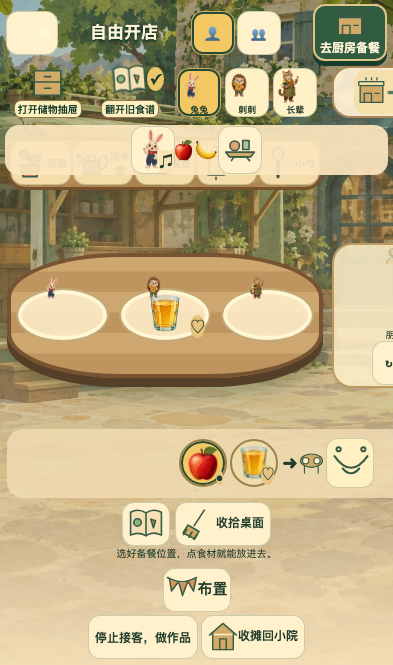
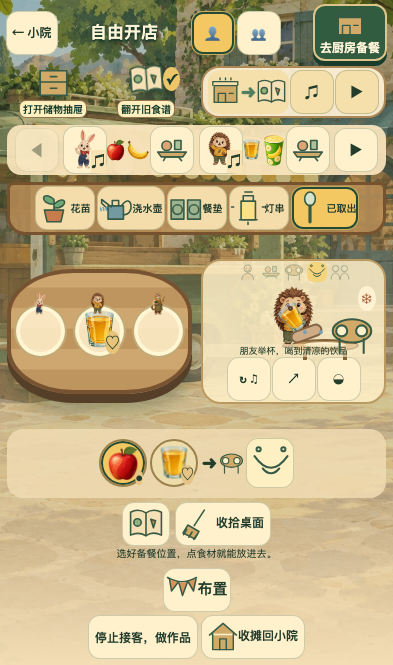
fix(friends): reserve tasting feedback for actual food use

diff --git a/src/app/FriendTheatre.tsx b/src/app/FriendTheatre.tsx
@@ -81,20 +81,24 @@ export function FriendTheatre({
       : Math.min(eating ? 4 : 2, Math.floor(phase / 960));
   const sip = food && FOOD_GROUPS.drink.includes(food.product);
   const cool = food && FOOD_GROUPS.cool.includes(food.product);
-  const feedback = food
-    ? sip
-      ? '朋友举杯，喝到清凉的饮品'
-      : cool
-        ? '冰凉的小口让朋友眯起眼'
-        : FOOD_GROUPS.fruit.includes(food.product)
-          ? '朋友咬下一口水果，慢慢咀嚼'
-          : '朋友咬下一口，拍拍小肚子'
-    : moment.kind === 'water'
-      ? '花朵展开，蝴蝶飞来'
-      : moment.kind === 'cooperate'
-        ? '朋友把物件带到餐桌旁'
-        : '朋友和你一起准备';
-  const voice = food ? (sip ? 'world-sip' : cool ? 'world-cold' : 'world-bite') : 'world-use';
+  const feedback =
+    food && eating
+      ? sip
+        ? '朋友举杯，喝到清凉的饮品'
+        : cool
+          ? '冰凉的小口让朋友眯起眼'
+          : FOOD_GROUPS.fruit.includes(food.product)
+            ? '朋友咬下一口水果，慢慢咀嚼'
+            : '朋友咬下一口，拍拍小肚子'
+      : food
+        ? `${name}接好食品，带到所选位置，等你安排分享`
+        : moment.kind === 'water'
+          ? '花朵展开，蝴蝶飞来'
+          : moment.kind === 'cooperate'
+            ? '朋友把物件带到餐桌旁'
+            : '朋友和你一起准备';
+  const voice =
+    eating && food ? (sip ? 'world-sip' : cool ? 'world-cold' : 'world-bite') : 'world-use';
   return (
     <section
       className={`friend-theatre theatre-${moment.kind} stage-${index} ${low ? 'low-motion' : ''} ${sip ? 'sip' : cool ? 'lick' : 'bite'}`}

diff --git a/e2e/adventure.spec.ts b/e2e/adventure.spec.ts
@@ -123,6 +123,11 @@ test('visible activity entrance reaches all five chapters and saves a real creat
   await page.getByRole('button', { name: '摆到2号餐位', exact: true }).click();
   await page.getByRole('button', { name: '点亮暖灯', exact: true }).click();
   await page.getByRole('button', { name: '一起开席', exact: true }).click();
+  console.log('EVIDENCE_DINNER_START_SECONDS', (Date.now() - walkStarted) / 1000);
+  await expect(page.getByRole('img', { name: '第2份，共2份', exact: true })).toBeVisible();
+  await expect(feast).toHaveClass(/sip/);
+  await expect(feast).toHaveClass(/stage-4/);
+  await page.screenshot({ path: 'docs/evidence/adventure-experience-02/dinner-drink-desktop.png' });
   await page.getByRole('button', { name: '下一院活动', exact: true }).click();
   await page.getByRole('button', { name: '邀请兔兔', exact: true }).click();
   await page.getByRole('button', { name: '邀请刺刺', exact: true }).click();

diff --git a/src/app/friend-theatre.css b/src/app/friend-theatre.css
@@ -162,7 +162,7 @@
   background: #6e483d;
   animation: chew-mouth 0.5s alternate infinite;
 }
-.sip .theatre-held {
+.sip.stage-3 .theatre-held {
   rotate: -20deg;
 }
 .sip .theatre-mouth {

diff --git a/docs/03-experience-design.md b/docs/03-experience-design.md
@@ -36,6 +36,6 @@
 
 每个阶段都有场景目标图带、明确可操作热点、所持物与目标之间的方向示意；受阻时替换当前图带：满餐位显示实际占位食品→拿回，已品尝显示旧食品→重新制作，类别不符显示重听与可选类别，篮中食品显示篮→桌，缺餐垫显示抽屉→餐垫；点图带选中/提示正常恢复按钮。中文为补充。静音/拒播保留完整图示；较少帮助下明确订单仍只给角色/操作/语音入口，不展示食品答案；点图示帮助须记录支持。开放委托可展示有限有效方案。
 
-朋友的接餐、携带、摆盘、取食/啜饮/咬下与回应是连续的场景演出，食品种类、数量、使用者、座位均来自规则；原有姿态与原创手臂/餐具/食物图层共同表现可辨认动作，不用变淡图片当品尝。演出可跳过、重播及低动态；展示时钟与声音不得参与结算。工具从抽屉取出后在场景中可持用，装饰产生种植、遮阴、布光、分享用途。
+朋友的接餐、携带、摆盘、取食/啜饮/咬下与回应是连续的场景演出，食品种类、数量、使用者、座位均来自规则；原有姿态与原创手臂/餐具/食物图层共同表现可辨认动作，不用变淡图片当品尝。接餐/摆放收据不提前播放品尝回应，啜饮只在实际品尝阶段倾杯，放回时保持直立。演出可跳过、重播及低动态；展示时钟与声音不得参与结算。工具从抽屉取出后在场景中可持用，装饰产生种植、遮阴、布光、分享用途。
 
 必要短情境语音沿用ForegroundAudio前景播放、取消、后台打断与重听，不新增播放系统。本机开发TTS逐条登记实际文本、文件hash与来源，DEVELOPMENT_TTS_UNREVIEWED；人工听审NOT_RUN、分发权PENDING。原创矢量图示登记代码来源和实际用途。邀请和分享牌合在独立的完整宽度场景行，网格列允许收缩，不能被邀请物件撑宽或盖住工具和演出；三位回访朋友每页两位，箭头切换，手机可实际点到第三位。抽屉工具在有分享需要时独占一行。朋友放下食品时有餐盘/篮子的承放表面，保持物品与实际动作收据对应。手机核心操作不靠滚动取用；多食品回看可以分页，当前目标/所持物/下一步固定可达。
